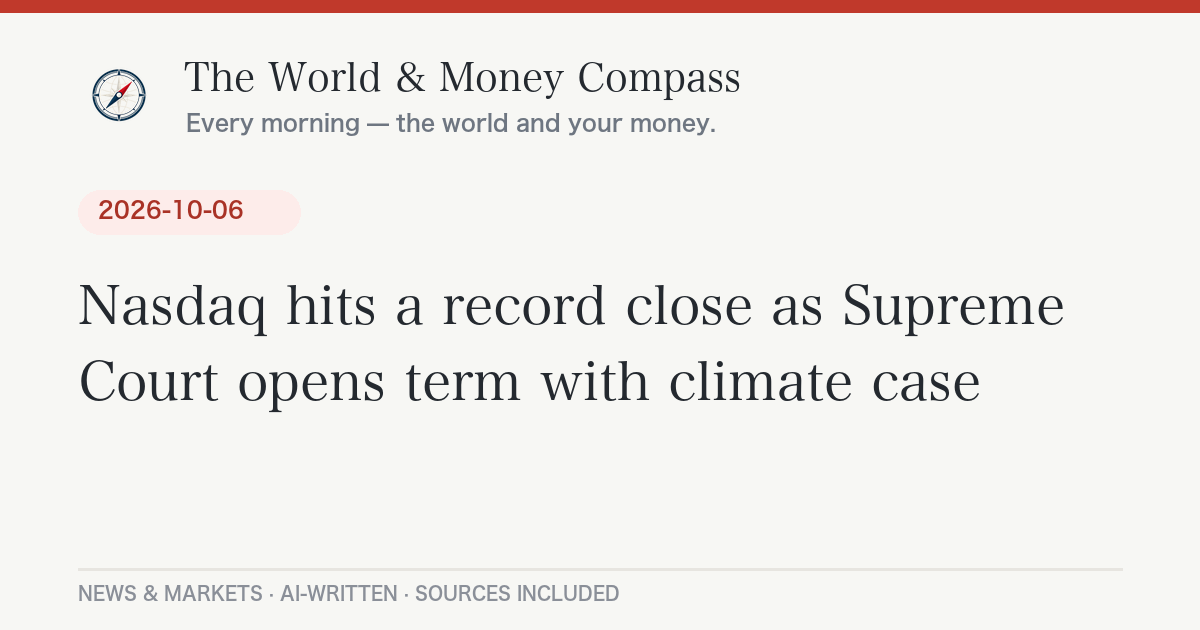
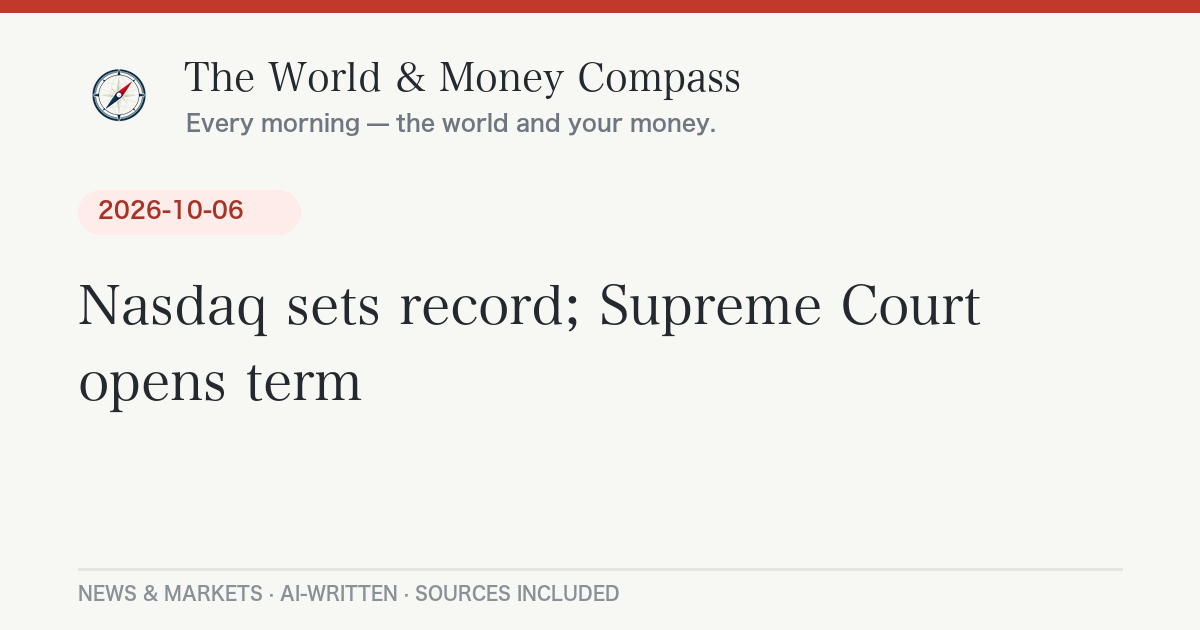
Daily briefing 2026-10-08

Changed region(s): [[0.0617, 0.573, 0.8325, 0.6635], [0.2158, 0.4524, 0.8942, 0.5429]]

diff --git a/_posts/2026-10-08-daily-briefing.md b/_posts/2026-10-08-daily-briefing.md
@@ -1,0 +1,98 @@
+---
+layout: post
+lang: ja
+title: "米FRB議事要旨で年内追加利上げ示唆、米長期金利24年ぶり高水準｜10月8日のニュースとお金"
+date: 2026-10-08 08:36:34 +0900
+categories: [ニュース, 経済]
+headline: "米FRB議事要旨で年内追加利上げ示唆、米長期金利24年ぶり高水準"
+permalink: /2026/10/08/daily-briefing/
+---
+
+## 今日のポイント
+
+アメリカの中央銀行（FRB）が9月の会合の記録を公表し、「年内にもう一度利上げするのが適切」という考えが多数派だとわかりました。アメリカの長期金利は約24年ぶりの高さまで上がり、米国株は最高値圏から小幅に下落。東京市場も半導体株を中心に売られ、日経平均は7万円台をかろうじて守りました。
+
+## 今日の羅針盤（Compass Insight）
+
+いま世界のお金の流れを左右しているのは「金利の高さ」です。アメリカでは[10年物国債の利回りが一時5.365%と2002年4月以来の水準](https://www.cnbc.com/2026/10/06/stock-market-today-live-updates.html)に達し、FRBの議事要旨では[参加者19人全員が9月の利上げを支持し、多くが年内の追加利上げを見込んでいた](https://www.bloomberg.com/news/articles/2026-10-07/fed-minutes-show-hawkish-unity-behind-september-rate-hike)ことが確認されました。背景には、1バレル100ドル前後で高止まりする原油と、AI投資ブームによる需要の強さがあります。
+
+私たちの暮らしへの影響で一番わかりやすいのは為替です。日本では日銀の早期利上げ観測がしぼみ、日米の金利差を意識した円売りで[1ドル＝158円台](https://www.chunichi.co.jp/article/1321939)が続いています。円安と原油高が重なると、ガソリン・電気代・輸入食品の値段にじわじわ効いてきます。一方で、日本でも金利が上がる局面では変動金利の住宅ローンを組んでいる家庭は返済額の見直しに注意が必要です。
+
+短期的には、10月末の米FRB会合（据え置き予想が優勢）と、10月29〜30日の日銀会合で利上げに踏み切るかが最大の焦点。中長期では、AIへの巨額投資が企業業績を押し上げ続けるのか、それとも金利高と物価高が景気の重しになるのか、この綱引きを見守る局面です。株価が高値圏にあるからこそ、金利の動きに一喜一憂しすぎない分散の意識が大切になりそうです。
+
+## 今日のニュース
+
+### 日本
+
+- 沖縄で米海兵隊員が女性を殺害したとして逮捕された事件を受け、[古謝玄太・沖縄県知事が7日、高市早苗首相と官邸で面会し強く抗議](https://www.tokyo-np.co.jp/article/520276)。知事は小泉防衛相、茂木外相とも会い、再発防止策や日米地位協定の見直しの必要性に言及した[要請書を提出](https://ryukyushimpo.jp/newspaper/entry-5540770.html)しました。政府は日米間で協議を進める方針です。
+- 臨時国会で[高市首相の所信表明演説に対する各党の代表質問が7日から始まりました](https://news.web.nhk/newsweb/na/nd-20261007de55598)。食料品の消費税減税、衆院議員の定数削減などが主な論点です。
+
+### 世界
+
+- ロシアが7日、ウクライナ各地にミサイルと無人機による大規模攻撃を実施。ゼレンスキー大統領は約70発のミサイルが使われたと述べ、エネルギー施設が主な標的になりました。[少なくとも20人が死亡と報じられています](https://www.aljazeera.com/news/2026/10/7/at-least-two-killed-in-kyiv-as-russia-launches-massive-attack-on-ukraine)（死者数は報道機関・時点で差あり）。
+
+### アメリカ
+
+- 8月の[米貿易赤字は1,056億ドルに拡大](https://www.cnbc.com/2026/10/06/trade-deficit-hits-105point6-billion-widest-since-just-before-trump-tariffs-enacted-last-year.html)。輸入は過去最高を記録し、AIデータセンター向け部品や原油・金の輸入増が押し上げました。
+- トランプ大統領が国家情報長官のジェイ・クレイトン氏を[政権の「AI担当責任者（AI czar）」に指名](https://www.npr.org/2026/10/04/nx-s1-5990781/jay-clayton-ai-czar-trump)。新設のタスクフォースが120日以内にAIのリスクと機会について報告をまとめます。
+
+### ヨーロッパ
+
+- フランスの財政悪化懸念から仏国債の利回りが急上昇し、[ユーロは対ドルで17カ月ぶりの安値](https://www.france24.com/en/live-news/20261005-euro-slides-as-concerns-about-french-debt-mount)を付けました。2027年予算案と翌年の大統領選をにらみ、市場の警戒が続いています。
+
+## 経済とお金の動き
+
+### 世界の経済と原油・相場
+
+| 指標 | 水準 | 前日比 |
+|---|---|---|
+| 日経平均株価（10/7終値） | [70,035.71円](https://www.nikkei.com/article/DGXZQOFL070JXTX01C26A0000000/) | <span class="chg-down">-648.27円（-0.92%）</span> |
+| NYダウ（10/7終値） | [51,179.87ドル](https://www.cnbc.com/2026/10/06/stock-market-today-live-updates.html) | <span class="chg-down">-341.41ドル（-0.66%）</span> |
+| S&P500（10/7終値） | [7,801.77](https://www.cnbc.com/2026/10/06/stock-market-today-live-updates.html) | <span class="chg-down">-0.22%</span> |
+| ナスダック総合（10/7終値） | [27,538.69](https://www.cnbc.com/2026/10/06/stock-market-today-live-updates.html) | <span class="chg-down">-0.22%</span> |
+| WTI原油（10/7） | [約89.85ドル/バレル](https://tradingeconomics.com/commodity/crude-oil) | <span class="chg-up">+0.46%</span> |
+| ドル円（ECB参照値・10/7） | [158.23円](https://api.frankfurter.app/latest?from=USD&to=JPY) | 円安方向で推移 |
+
+原油は北海ブレントが[1バレル100ドル前後](https://tradingeconomics.com/commodity/brent-crude-oil)と高止まり。米エネルギー情報局（EIA）は[10〜12月期のブレント平均を105ドルと予想](https://www.eia.gov/outlooks/steo/report/global_oil.php)しており、中東からの供給制約が続く前提です。原油高はインフレ圧力として各国の金利上昇を通じ株式市場の重しになっています。
+
+### アメリカの経済
+
+FRBの議事要旨によると、9月会合では利上げ幅0.25%を全員一致で決定し、[「大半の参加者が年内の追加利上げが適切になる可能性が高い」と判断](https://www.investing.com/news/economy-news/fed-policymakers-divided-over-ratehike-logic-in-september-minutes-show-4937320)していました。一方で、利上げが「念のため」なのか「本格的な引き締め」なのかで見方は割れています。市場では今月の会合は据え置き、12月に追加利上げ、という見方が中心です。株価指数の下げは小さかったものの、[値下がり銘柄が全体の約3分の2](https://www.thestreet.com/stock-market-today/stock-market-today-dow-jones-sp-500-nasdaq-updates-oct-07-2026)を占め、小型株指数ラッセル2000は1.31%下落と、金利高の痛みは中小型株に集中しました。
+
+### 日本の経済
+
+日経平均は3営業日ぶりに反落。前日に米ナスダックが最高値を更新したにもかかわらず、[AI・半導体関連に利益確定売りが出て米株高に追随できませんでした](https://www.nikkei.com/article/DGXZQOFL070JXTX01C26A0000000/)。為替は、年金積立金管理運用独立行政法人（GPIF）が円資産を増やすとの思惑が後退したことも[円の重荷](https://nikkei.com/article/DGXZQOFL075GT0X01C26A0000000)になっています。日銀の早期利上げ観測が後退する中、10月29〜30日の金融政策決定会合が次の大きな節目です。
+
+## 今日の注目銘柄・セクター
+
+- **半導体関連（東京エレクトロン、アドバンテストなど）**：7日の東京市場では[値がさ半導体株を中心に利益確定売り](https://www.zaikei.co.jp/article/20261007/872661.html)が優勢となり、日経平均の下げを主導しました。年初来高値圏まで上昇していた反動との見方です。
+- **コンステレーション・エナジー（米・原子力発電）**：アルファベット（グーグル）と[890メガワットの原子力電力を20年間購入する契約](https://www.fool.com/investing/2026/10/07/google-signs-nuclear-deal-with-constellation-energy/)を結んだと6日に発表し、株価は同日約12%上昇。AIデータセンター向けの電力需要が電力株の追い風になっています。
+- **米中小型株**：長期金利の上昇で借入コストが重くのしかかるとの見方から、ラッセル2000は7日に[1.31%下落](https://www.thestreet.com/stock-market-today/stock-market-today-dow-jones-sp-500-nasdaq-updates-oct-07-2026)し大型株より大きく下げました。
+
+*※特定銘柄の売買を推奨するものではありません。投資判断はご自身の責任で。*
+
+## まとめ：注目の3つ
+
+1. **米長期金利の行方**：10年債利回りが24年ぶり高水準。さらに上がれば株価と住宅ローン金利の両方に影響が広がる可能性。
+2. **日銀の10月会合**：利上げ見送りなら円安が進み、輸入品の値上がりにつながりやすい点に注目。
+3. **原油100ドルの攻防**：中東の供給制約とウクライナのエネルギー施設攻撃が、冬場のエネルギー価格を左右しそうです。
+
+---
+<div class="post-sources" markdown="1">
+
+**出典：**
+- [CNBC: S&P 500 retreats from record as elevated yields keep traders on guard](https://www.cnbc.com/2026/10/06/stock-market-today-live-updates.html)
+- [Bloomberg: Fed Minutes Show Officials All Backed September Interest Rate Hike](https://www.bloomberg.com/news/articles/2026-10-07/fed-minutes-show-hawkish-unity-behind-september-rate-hike)
+- [Reuters via Investing.com: Fed policymakers divided over rate-hike logic in September](https://www.investing.com/news/economy-news/fed-policymakers-divided-over-ratehike-logic-in-september-minutes-show-4937320)
+- [日本経済新聞: 日経平均終値648円安、インフレ懸念で息切れ](https://www.nikkei.com/article/DGXZQOFL070JXTX01C26A0000000/)
+- [中日新聞: 東京円、158円台前半](https://www.chunichi.co.jp/article/1321939)
+- [東京新聞: 古謝玄太・沖縄県知事 米兵の強盗殺人事件で高市首相に抗議](https://www.tokyo-np.co.jp/article/520276)
+- [NHK: きょうから代表質問 消費税 定数削減 農相発言などで論戦](https://news.web.nhk/newsweb/na/nd-20261007de55598)
+- [Al Jazeera: Russia launches 'massive' attack on Ukraine](https://www.aljazeera.com/news/2026/10/7/at-least-two-killed-in-kyiv-as-russia-launches-massive-attack-on-ukraine)
+- [CNBC: Trade deficit hits $105.6 billion](https://www.cnbc.com/2026/10/06/trade-deficit-hits-105point6-billion-widest-since-just-before-trump-tariffs-enacted-last-year.html)
+- [France 24: Euro slides as concerns about French debt mount](https://www.france24.com/en/live-news/20261005-euro-slides-as-concerns-about-french-debt-mount)
+- 市場データ: [frankfurter API](https://api.frankfurter.app/) ／ [Trading Economics](https://tradingeconomics.com/commodity/crude-oil) ほか（Yahoo Financeは本日取得不可のため報道値で代替）
+
+*本記事は公開情報をもとに作成しています。*
+
+</div>

diff --git a/_posts/2026-10-08-daily-briefing-en.md b/_posts/2026-10-08-daily-briefing-en.md
@@ -1,0 +1,52 @@
+---
+layout: post
+lang: en
+title: "Fed minutes signal another hike as 10-year yield hits 24-year high — October 8, 2026"
+date: 2026-10-08 08:36:34 +0900
+headline: "Fed minutes signal another hike as 10-year yield hits 24-year high"
+permalink: /2026/10/08/daily-briefing/
+---
+
+## Top U.S. Stories
+
+- **Fed minutes point to another hike.** Minutes from the September meeting showed [all 19 officials backed the quarter-point increase](https://www.bloomberg.com/news/articles/2026-10-07/fed-minutes-show-hawkish-unity-behind-september-rate-hike), and [most said another increase would likely be appropriate by year end](https://www.investing.com/news/economy-news/fed-policymakers-divided-over-ratehike-logic-in-september-minutes-show-4937320).
+  *Why it matters:* Borrowing costs for mortgages, car loans and businesses are likely to stay elevated into 2027.
+- **Treasury yields hit multi-decade highs.** The 10-year yield touched [5.365%, its highest since April 2002](https://www.cnbc.com/2026/10/06/stock-market-today-live-updates.html), before easing after a $39 billion auction.
+  *Why it matters:* Higher long-term rates compete directly with stocks and squeeze rate-sensitive small caps.
+- **Trade deficit widens to $105.6 billion.** August's gap was [the widest since early 2025](https://www.cnbc.com/2026/10/06/trade-deficit-hits-105point6-billion-widest-since-just-before-trump-tariffs-enacted-last-year.html), with record imports driven by AI data-center components, crude oil and gold.
+  *Why it matters:* The AI build-out is pulling in imports even as new tariff rounds take effect.
+- **Jay Clayton named AI czar.** President Trump tapped the Director of National Intelligence to [lead a new White House AI task force](https://www.npr.org/2026/10/04/nx-s1-5990781/jay-clayton-ai-czar-trump) due to report within 120 days.
+
+## Compass Insight
+
+The story of the week is the price of money. Stocks sit near records on AI-fueled earnings hopes, yet the bond market keeps pushing back: oil near $100 and a hot AI investment cycle are keeping inflation risks tilted to the upside, and the Fed's own minutes confirm a bias toward tightening. Wednesday's session was telling — the headline indexes slipped only modestly while roughly two-thirds of stocks fell and small caps dropped more than 1%. In the near term, watch whether the 10-year can hold above 5.3% and how the Fed frames its late-October meeting. Longer term, the key question is whether AI-driven productivity arrives fast enough to justify both today's valuations and today's rates.
+
+## Markets
+
+- [Dow: 51,179.87, down 341.41 (-0.66%); S&P 500: 7,801.77 (-0.22%); Nasdaq: 27,538.69 (-0.22%)](https://www.cnbc.com/2026/10/06/stock-market-today-live-updates.html) — Oct. 7 close.
+- [Russell 2000: -1.31%](https://www.thestreet.com/stock-market-today/stock-market-today-dow-jones-sp-500-nasdaq-updates-oct-07-2026).
+- [WTI crude: about $89.85/bbl (+0.46%); Brent: around $100](https://tradingeconomics.com/commodity/crude-oil).
+- [USD/JPY: 158.23 (ECB reference, Oct. 7)](https://api.frankfurter.app/latest?from=USD&to=JPY). [Japan's Nikkei 225 closed at 70,035.71, down 0.92%](https://www.nikkei.com/article/DGXZQOFL070JXTX01C26A0000000/).
+
+## Stocks in Focus
+
+- **Constellation Energy (CEG):** Signed a [20-year deal to supply Alphabet with 890 MW of nuclear power](https://www.fool.com/investing/2026/10/07/google-signs-nuclear-deal-with-constellation-energy/); shares jumped about 12% on Oct. 6.
+- **Small caps:** Bore the brunt of rising yields, with the Russell 2000 underperforming large caps.
+
+---
+<div class="post-sources" markdown="1">
+
+**Sources:**
+- [CNBC: S&P 500 retreats from record as elevated yields keep traders on guard](https://www.cnbc.com/2026/10/06/stock-market-today-live-updates.html)
+- [Bloomberg: Fed Minutes Show Officials All Backed September Interest Rate Hike](https://www.bloomberg.com/news/articles/2026-10-07/fed-minutes-show-hawkish-unity-behind-september-rate-hike)
+- [Reuters via Investing.com: Fed policymakers divided over rate-hike logic](https://www.investing.com/news/economy-news/fed-policymakers-divided-over-ratehike-logic-in-september-minutes-show-4937320)
+- [TheStreet: Stock Market Today, Oct. 7, 2026](https://www.thestreet.com/stock-market-today/stock-market-today-dow-jones-sp-500-nasdaq-updates-oct-07-2026)
+- [CNBC: Trade deficit hits $105.6 billion](https://www.cnbc.com/2026/10/06/trade-deficit-hits-105point6-billion-widest-since-just-before-trump-tariffs-enacted-last-year.html)
+- [NPR: Trump names Jay Clayton as new AI czar](https://www.npr.org/2026/10/04/nx-s1-5990781/jay-clayton-ai-czar-trump)
+- [Motley Fool: Google Signs Nuclear Deal With Constellation Energy](https://www.fool.com/investing/2026/10/07/google-signs-nuclear-deal-with-constellation-energy/)
+- [Nikkei: Nikkei average falls 648 yen](https://www.nikkei.com/article/DGXZQOFL070JXTX01C26A0000000/)
+- Market data: [frankfurter API](https://api.frankfurter.app/) / [Trading Economics](https://tradingeconomics.com/commodity/crude-oil)
+
+</div>
+
+*Auto-generated and AI-written. Not investment advice.*
